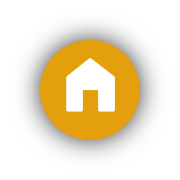
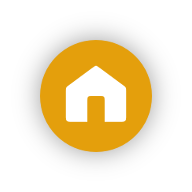
Add zoom to home/search buttons Fix zoom on section buttons Fix nav on section buttons Add handling for home.playlist hub Only show top bar backround when window has scrolled down

Changed region(s): [[0.1944, 0.1944, 0.8056, 0.8056], [0.3889, 0.3056, 0.6667, 0.6389], [0.3333, 0.4167, 0.4722, 0.6389]]

diff --git a/lib/windows/home.py b/lib/windows/home.py
@@ -11,6 +11,7 @@ from lib import colors
 import plexnet
 from plexnet import plexapp
 
+import playlist
 import playlists
 import posters
 import subitems
@@ -71,7 +72,7 @@ class HomeSection(object):
 
 
 class PlaylistsSection(object):
-    key = None
+    key = False
     type = 'playlists'
     title = 'Playlists'
 
@@ -132,7 +133,8 @@ class HomeWindow(kodigui.BaseWindow):
         'home.movies.recent': {'index': 4},
         'home.music.recent': {'index': 5},
         'home.videos.recent': {'index': 6, 'ar16x9': True},
-        'home.photos.recent': {'index': 9},
+        'home.playlists': {'index': 9},
+        'home.photos.recent': {'index': 10},
         # SHOW
         'tv.ondeck': {'index': 1},
         'tv.recentlyaired': {'index': 2},
@@ -244,7 +246,7 @@ class HomeWindow(kodigui.BaseWindow):
                     self.setFocusId(self.SERVER_BUTTON_ID)
             elif controlID == self.PLAYER_STATUS_BUTTON_ID and action == xbmcgui.ACTION_MOVE_RIGHT:
                 self.setFocusId(self.SERVER_BUTTON_ID)
-            if action in (xbmcgui.ACTION_MOVE_LEFT, xbmcgui.ACTION_MOVE_RIGHT, xbmcgui.ACTION_MOUSE_MOVE):
+            if controlID == self.SECTION_LIST_ID:
                 self.checkSectionItem()
             elif action in(xbmcgui.ACTION_NAV_BACK, xbmcgui.ACTION_CONTEXT_MENU):
                 if not xbmc.getCondVisibility('ControlGroup({0}).HasFocus(0)'.format(self.OPTIONS_GROUP_ID)):
@@ -328,6 +330,8 @@ class HomeWindow(kodigui.BaseWindow):
             self.photoClicked(mli.dataSource)
         elif mli.dataSource.TYPE in ('photodirectory'):
             self.photoDirectoryClicked(mli.dataSource)
+        elif mli.dataSource.TYPE in ('playlist'):
+            self.playlistClicked(mli.dataSource)
 
     def playableClicked(self, playable):
         w = preplay.PrePlayWindow.open(video=playable)
@@ -357,17 +361,22 @@ class HomeWindow(kodigui.BaseWindow):
         w = posters.SquaresWindow.open(section=photodirectory)
         del w
 
+    def playlistClicked(self, pl):
+        w = playlist.PlaylistWindow.open(playlist=pl)
+        del w
+
     def checkSectionItem(self):
         item = self.sectionList.getSelectedItem()
         if not item:
             return
 
-        if item.getProperty('item'):
-            if item.dataSource != self.lastSection:
-                self.lastSection = item.dataSource
-                self.sectionChanged(item.dataSource)
-        else:
+        if not item.getProperty('item'):
             self.sectionList.selectItem(self.bottomItem)
+            item = self.sectionList[self.bottomItem]
+
+        if item.dataSource != self.lastSection:
+            self.lastSection = item.dataSource
+            self.sectionChanged(item.dataSource)
 
     def displayServerAndUser(self):
         self.setProperty('user.name', plexapp.ACCOUNT.title or plexapp.ACCOUNT.username)
@@ -507,7 +516,7 @@ class HomeWindow(kodigui.BaseWindow):
             mli = self.createGrandparentedListItem(obj, *self.THUMB_AR16X9_DIM, with_grandparent_title=True)
             mli.setProperty('thumb.fallback', 'script.plex/thumb_fallbacks/movie16x9.png')
             return mli
-        elif obj.type == 'artist':
+        elif obj.type in ('artist', 'playlist'):
             mli = self.createSimpleListItem(obj, *self.THUMB_SQUARE_DIM)
             mli.setProperty('thumb.fallback', 'script.plex/thumb_fallbacks/music.png')
             return mli

diff --git a/lib/windows/settings.py b/lib/windows/settings.py
@@ -213,6 +213,7 @@ class SettingsWindow(kodigui.BaseWindow):
     SECTION_LIST_ID = 75
     SETTINGS_LIST_ID = 100
     OPTIONS_LIST_ID = 125
+    TOP_GROUP_ID = 200
 
     CLOSE_BUTTON_ID = 201
     PLAYER_STATUS_BUTTON_ID = 204
@@ -236,6 +237,9 @@ class SettingsWindow(kodigui.BaseWindow):
             if action in (xbmcgui.ACTION_NAV_BACK, xbmcgui.ACTION_PREVIOUS_MENU):
                 if self.getFocusId() == self.OPTIONS_LIST_ID:
                     self.setFocusId(self.SETTINGS_LIST_ID)
+                    return
+                elif not xbmc.getCondVisibility('ControlGroup({0}).HasFocus(0)'.format(self.TOP_GROUP_ID)):
+                    self.setFocusId(self.TOP_GROUP_ID)
                     return
             elif action == xbmcgui.ACTION_MOVE_RIGHT and controlID == 150:
                 self.editSetting(from_right=True)
@@ -311,9 +315,9 @@ class SettingsWindow(kodigui.BaseWindow):
             self.fillList(setting)
         elif setting.type == 'BOOL' and not from_right:
             self.toggleBool(mli, setting)
-        elif setting.type == 'IP':
+        elif setting.type == 'IP' and not from_right:
             self.editIP(mli, setting)
-        elif setting.type == 'INTEGER':
+        elif setting.type == 'INTEGER' and not from_right:
             self.editInteger(mli, setting)
 
     def changeSetting(self):

diff --git a/lib/windows/playlist.py b/lib/windows/playlist.py
@@ -88,13 +88,13 @@ class PlaylistWindow(kodigui.BaseWindow):
             return self.createMovieListItem(pi)
 
     def createTrackListItem(self, track):
-        label2 = '{0} / {1}'.format(track.grandparentTitle, track.parentTitle)
+        label2 = u'{0} / {1}'.format(track.grandparentTitle, track.parentTitle)
         mli = kodigui.ManagedListItem(track.title, label2, thumbnailImage=track.defaultThumb.asTranscodedImageURL(*self.LI_SQUARE_THUMB_DIM), data_source=track)
         mli.setProperty('track.duration', util.simplifiedTimeDisplay(track.duration.asInt()))
         return mli
 
     def createEpisodeListItem(self, episode):
-        label2 = '{0} / {1}'.format(episode.grandparentTitle, '{0}x{1:0>2}'.format(episode.parentIndex, episode.index))
+        label2 = u'{0} \u2022 {1}'.format(episode.grandparentTitle, u'S{0} \u2022 E{1}'.format(episode.parentIndex, episode.index))
         mli = kodigui.ManagedListItem(episode.title, label2, thumbnailImage=episode.thumb.asTranscodedImageURL(*self.LI_AR16X9_THUMB_DIM), data_source=episode)
         mli.setProperty('track.duration', util.durationToShortText(episode.duration.asInt()))
         mli.setProperty('video', '1')

diff --git a/lib/_included_packages/plexnet/plexlibrary.py b/lib/_included_packages/plexnet/plexlibrary.py
@@ -269,7 +269,7 @@ class FilterChoice(plexobjects.PlexObject):
 
 @plexobjects.registerLibType
 class Playlist(plexobjects.PlexObject):
-    TYPE = 'Playlist'
+    TYPE = 'playlist'
 
     def __init__(self, *args, **kwargs):
         plexobjects.PlexObject.__init__(self, *args, **kwargs)
@@ -285,6 +285,10 @@ class Playlist(plexobjects.PlexObject):
             self._items = plexobjects.listItems(self.server, path)
 
         return self._items
+
+    @property
+    def defaultThumb(self):
+        return self.composite
 
 
 SECTION_TYPES = {

diff --git a/lib/_included_packages/plexnet/plexserver.py b/lib/_included_packages/plexnet/plexserver.py
@@ -125,7 +125,7 @@ class PlexServer(plexresource.PlexResource, signalsmixin.SignalsMixin):
 
     def playlists(self):
         try:
-            return plexobjects.listItems(self, '/playlists/all', bytag=True)
+            return plexobjects.listItems(self, '/playlists/all')
         except exceptions.BadRequest:
             return None
 
